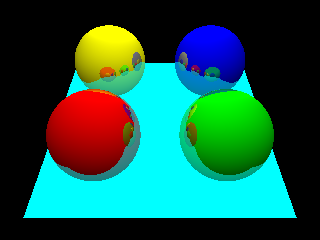
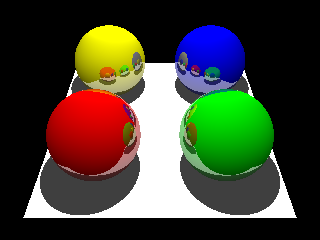
updated example 13

Changed region(s): [[0.0625, 0.2625, 0.9375, 0.9333]]

diff --git a/examples/13_reflections.py b/examples/13_reflections.py
@@ -26,7 +26,7 @@ scene = Scene()
 scene.addLight(PointLight(Vec3(0,0,15)))
 
 # create some materials:
-floormaterial = PhongMaterial(color=Vec3(0.0,0.1,0.1))
+floormaterial = PhongMaterial(color=Vec3(0.1,0.1,0.1))
 sphere0material = PhongMaterial(color=Vec3(1.,0.,0.), reflectivity=0.5)
 sphere1material = PhongMaterial(color=Vec3(0.,1.,0.), reflectivity=0.5)
 sphere2material = PhongMaterial(color=Vec3(0.,0.,1.), reflectivity=0.5)
@@ -55,7 +55,7 @@ scene.add(Sphere(center=Vec3(-2.5, 2.5,1.75), radius=1.75, material=sphere3mater
 scene.setCamera(camera)
 
 # Create a raytracer using "SimpleRT"
-engine = SimpleRT(shadow=False, iterations=3)   # TODO: Reflect Shadow too (put in shade calculatation)
+engine = SimpleRT(shadow=True, iterations=3)
 
 # Render the scene:
 imgdata = engine.render(scene)

diff --git a/README.rst b/README.rst
@@ -48,7 +48,7 @@ Getting Started: Try the examples
 There are a lot of examples available how to use this module. This is
 the recommended way to get started with pyRT.
 
-|Example 01| |Example 12b| |Example 06| |Example 08|
+|Example 01| |Example 12b| |Example 13| |Example 08|
 
 `View all examples <examples/README.md>`__
 
@@ -122,6 +122,6 @@ official support or anything.
    :target: https://github.com/martinchristen/pyRT/blob/master/LICENSE.md
 .. |Example 01| image:: examples/11.png
 .. |Example 12b| image:: examples/12b.gif
-.. |Example 06| image:: examples/06.gif
+.. |Example 13| image:: examples/13.png
 .. |Example 08| image:: examples/08.png
 

diff --git a/examples/README.md b/examples/README.md
@@ -136,3 +136,12 @@ This example renders 4 spheres on ground (2 triangles).
 The second version (12b) animates the light source and generates a gif.
 
 ![Example 12](12.png) ![Example 12b](12b.gif)
+
+### Adding reflections
+
+This example uses the scene from example 11. It changes the material of the spheres to supoprt reflections.
+
+[13_reflections.py](13_reflections.py)
+[13_reflections.py](13_reflections.py)
+
+![Example 13](13.png)
